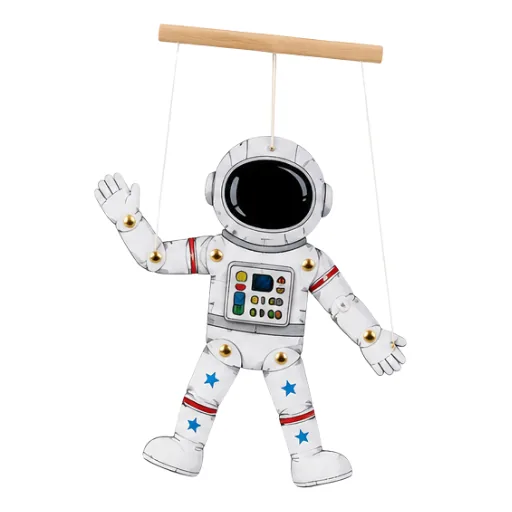
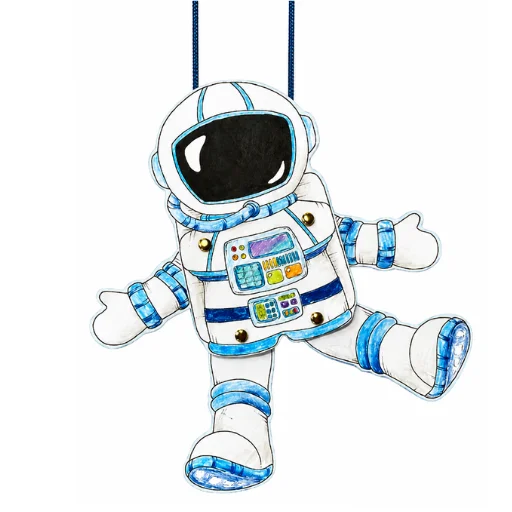
Update image and service worker for website
Update the main image to the latest webp format and increment the service worker cache version.

Replit-Commit-Author: Agent
Replit-Commit-Session-Id: 11cd4722-c542-4321-bbda-fa50ce785d70
Replit-Commit-Checkpoint-Type: full_checkpoint
Replit-Commit-Event-Id: dfdab6a3-759a-4ed1-a094-149acc832b8c
Replit-Commit-Screenshot-Url: https://storage.googleapis.com/screenshot-production-us-central1/d1359026-9103-4b57-bd77-9aa4c1eeace8/11cd4722-c542-4321-bbda-fa50ce785d70/Q76Latp
Replit-Helium-Checkpoint-Created: true

Changed region(s): [[0.1875, 0.0, 0.9375, 0.9688], [0.1562, 0.625, 0.1875, 0.6562]]

diff --git a/index.html b/index.html
@@ -134,7 +134,7 @@ body {
 <script>
   if ("serviceWorker" in navigator) {
     window.addEventListener("load", () => {
-      navigator.serviceWorker.register("./sw.js?v=273").then(registration => registration.update());
+      navigator.serviceWorker.register("./sw.js?v=274").then(registration => registration.update());
     });
   }
 </script>

diff --git a/sw.js b/sw.js
@@ -1,4 +1,4 @@
-const CACHE_NAME = "summer-catalog-v2026-06-12-v273";
+const CACHE_NAME = "summer-catalog-v2026-06-12-v274";
 
 const CORE_ASSETS = [
   "./",